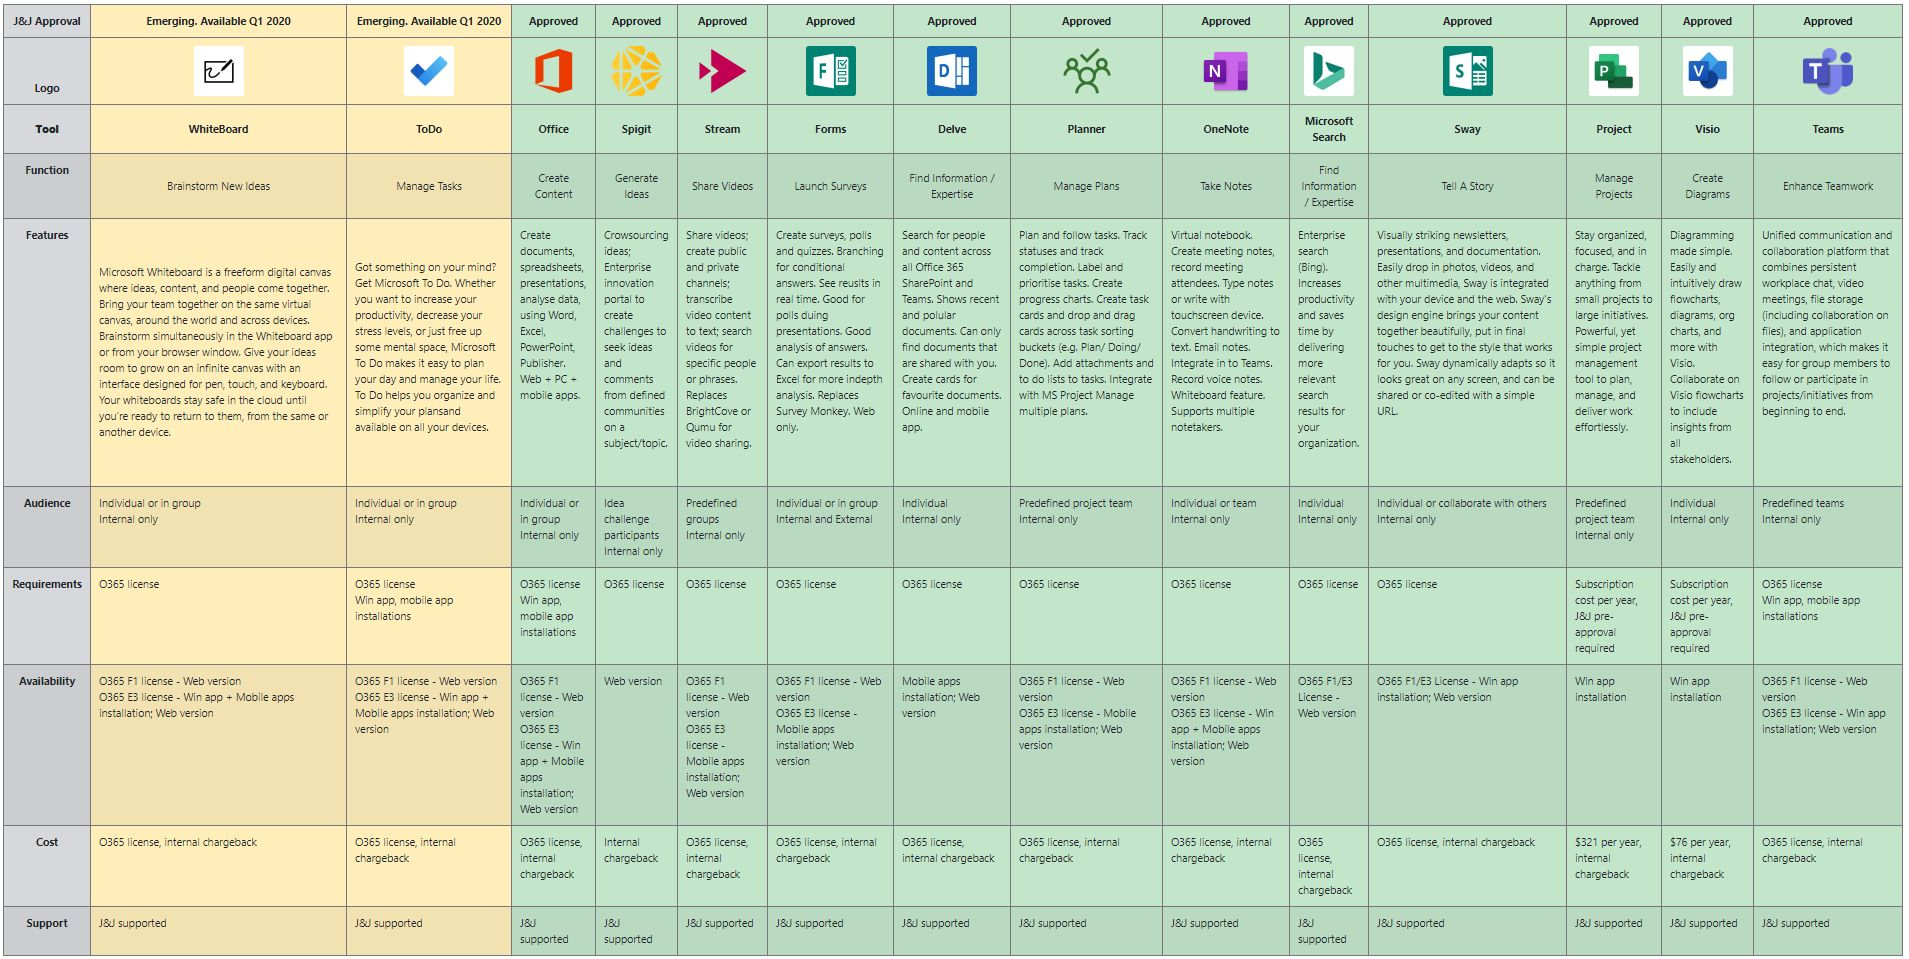
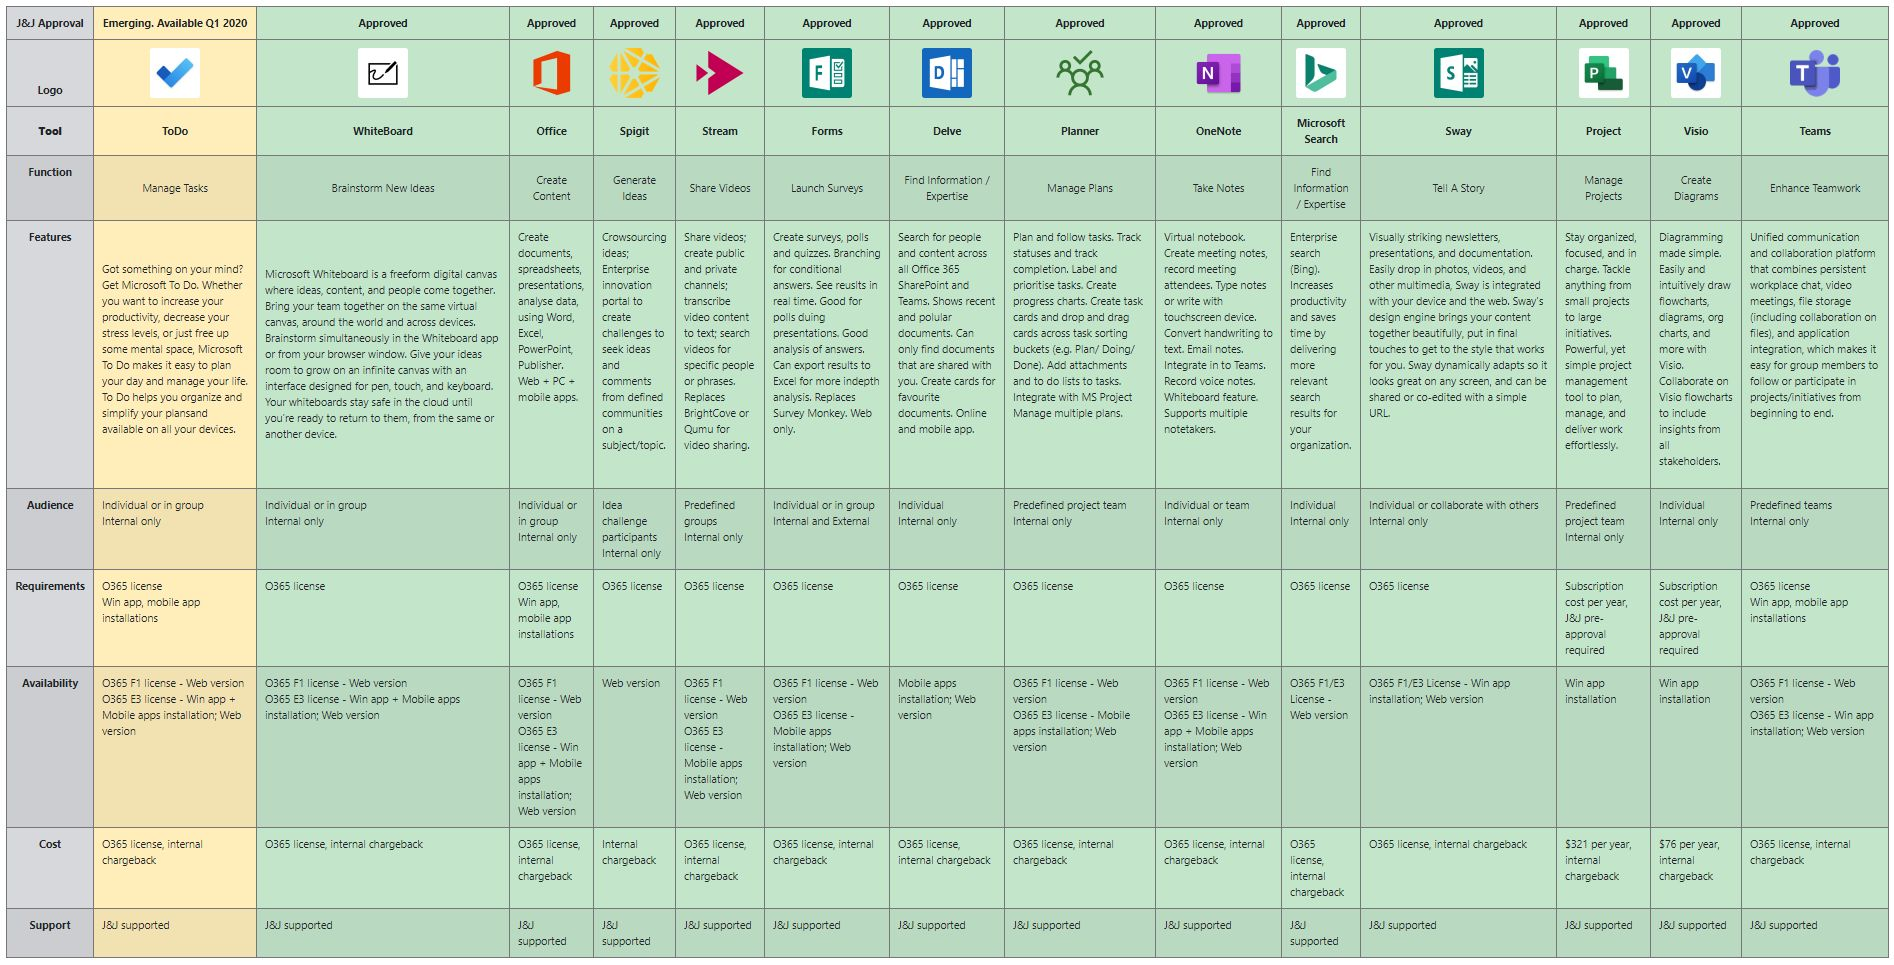
WhiteBoard launch

diff --git a/Scenarios/ProductTools/toolkit_pt.html b/Scenarios/ProductTools/toolkit_pt.html
@@ -40,14 +40,13 @@
                 <colgroup>
                     <col class="table-secondary" />
                     <col class="table-warning" />
-                    <col class="table-warning" />
                     <col class="table-success" span="20" />
                 </colgroup>
                 <thead>
                     <tr class="text-center">
                         <th scope="col" class="align-middle">J&amp;J Approval</th>
                         <th scope="col" class="align-middle">Emerging. Available Q1 2020</th>
-                        <th scope="col" class="align-middle">Emerging. Available Q1 2020</th>
+                        <th scope="col" class="align-middle">Approved</th>
                         <th scope="col" class="align-middle">Approved</th>
                         <th scope="col" class="align-middle">Approved</th>
                         <th scope="col" class="align-middle">Approved</th>
@@ -63,8 +62,8 @@
                     </tr>
                     <tr class="text-center">
                         <th scope="col" >Logo</th>
-                        <th scope="col"><img src="https://raw.githubusercontent.com/MyYupNope/MyYupNope.github.io/master/Logos/Whiteboard.jpg" alt="logos" height="75px" class=" rounded " /></th>
                         <th scope="col"><img src="https://raw.githubusercontent.com/MyYupNope/MyYupNope.github.io/master/Logos/ToDo.jpg" alt="logos" height="75px" class=" rounded " /></th>
+                        <th scope="col"><img src="https://raw.githubusercontent.com/MyYupNope/MyYupNope.github.io/master/Logos/Whiteboard.jpg" alt="logos" height="75px" class=" rounded " /></th>
                         <th scope="col"><img src="https://raw.githubusercontent.com/MyYupNope/MyYupNope.github.io/master/Logos/Office.png" alt="logos"  height="75px" class=" rounded " /></th>
                         <th scope="col"><img src="https://raw.githubusercontent.com/MyYupNope/MyYupNope.github.io/master/Logos/Spigit.png" alt="logos"  height="75px" class=" rounded " /></th>
                         <th scope="col"><img src="https://raw.githubusercontent.com/MyYupNope/MyYupNope.github.io/master/Logos/Stream.png" alt="logos"  height="75px" class=" rounded " /></th>
@@ -80,8 +79,8 @@
                     </tr>
                     <tr class="text-center">
                         <th scope="col" class="align-middle"><b>Tool</b></th>
-                        <th scope="col" class="align-middle">WhiteBoard</th>
                         <th scope="col" class="align-middle">ToDo</th>
+                        <th scope="col" class="align-middle">WhiteBoard</th>
                         <th scope="col" class="align-middle">Office</th>
                         <th scope="col" class="align-middle">Spigit</th>
                         <th scope="col" class="align-middle">Stream</th>
@@ -99,8 +98,8 @@
                 <tbody>
                     <tr class="text-center">
                         <th scope="row" class="text-center">Function</th>
-                        <td class="align-middle">Brainstorm New Ideas</td>
                         <td class="align-middle">Manage Tasks</td>
+                        <td class="align-middle">Brainstorm New Ideas</td>
                         <td class="align-middle">Create Content</td>
                         <td class="align-middle">Generate Ideas</td>
                     <td class="align-middle">Share Videos</td>
@@ -117,10 +116,10 @@
                     <tr>
                         <th scope="row" class="text-center">Features</th>
                         <td class="align-middle">
-                            Microsoft Whiteboard is a freeform digital canvas where ideas, content, and people come together. Bring your team together on the same virtual canvas, around the world and across devices. Brainstorm simultaneously in the Whiteboard app or from your browser window. Give your ideas room to grow on an infinite canvas with an interface designed for pen, touch, and keyboard. Your whiteboards stay safe in the cloud until you’re ready to return to them, from the same or another device.
+                            <p>Got something on your mind? Get Microsoft To Do. Whether you want to increase your productivity, decrease your stress levels, or just free up some mental space, Microsoft To Do makes it easy to plan your day and manage your life. To Do helps you organize and simplify your plansand available on all your devices.</p>
                         </td>
                         <td class="align-middle">
-                            <p>Got something on your mind? Get Microsoft To Do. Whether you want to increase your productivity, decrease your stress levels, or just free up some mental space, Microsoft To Do makes it easy to plan your day and manage your life. To Do helps you organize and simplify your plansand available on all your devices.</p>
+                            Microsoft Whiteboard is a freeform digital canvas where ideas, content, and people come together. Bring your team together on the same virtual canvas, around the world and across devices. Brainstorm simultaneously in the Whiteboard app or from your browser window. Give your ideas room to grow on an infinite canvas with an interface designed for pen, touch, and keyboard. Your whiteboards stay safe in the cloud until you’re ready to return to them, from the same or another device.
                         </td>
                         <td class="align-top">
                             <p>Create documents, spreadsheets, presentations, analyse data, using Word, Excel, PowerPoint, Publisher. Web + PC + mobile apps.</p>
@@ -182,8 +181,8 @@
                     
                     <tr>
                         <th scope="row" class="text-center">Requirements</th>
-                        <td>O365 license</td>
                         <td>O365 license<br>Win app, mobile app installations</td>
+                        <td>O365 license</td>
                         <td>O365 license<br>Win app, mobile app installations</td>
                         <td>O365 license</td>
                         <td>O365 license</td>
